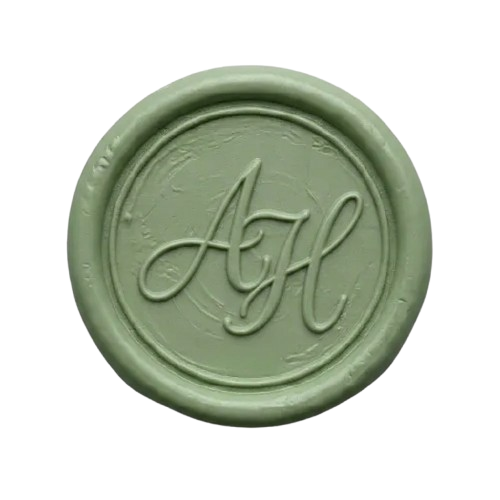
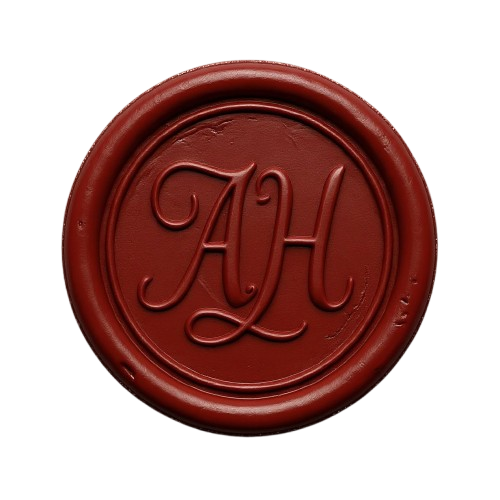
feat: add photo section dividers, fix calendar heart, burgundy RSVP button
- Add 4 couple photo dividers (sec-1..4) between sections
- Replace calendar heart path with clean symmetric shape
- Change RSVP confirm button to burgundy
- Restore Verde and Caramelo swatches in color palette

diff --git a/resources/views/public/invitation.blade.php b/resources/views/public/invitation.blade.php
@@ -192,8 +192,8 @@
             left: 50%;
             transform: translate(-50%, -50%) scale(1.1);
             /* Cover the viewport by height: video height = webview height, sides cropped.
-                                                                                                           min-* technique works where object-fit on <video> is unreliable (iOS/in-app browsers).
-                                                                                                           scale(1.1) adds a slight zoom so edges are always covered. */
+                                                                                                                                   min-* technique works where object-fit on <video> is unreliable (iOS/in-app browsers).
+                                                                                                                                   scale(1.1) adds a slight zoom so edges are always covered. */
             width: auto;
             height: auto;
             min-width: 100%;
@@ -393,6 +393,21 @@
             z-index: 1;
             color: #fff;
             font-weight: 600;
+        }
+
+        /* ─── Separador fotográfico ─────────── */
+        .photo-divider {
+            width: 100%;
+            overflow: hidden;
+            line-height: 0;
+        }
+
+        .photo-divider img {
+            width: 100%;
+            height: clamp(20rem, 70vh, 34rem);
+            object-fit: cover;
+            object-position: center 30%;
+            display: block;
         }
 
         /* ─── Itinerario ─────────────────── */
@@ -940,9 +955,6 @@
                     Sábado <span class="date-headline-day">24</span> de Octubre, 2026
                 </p>
 
-                <p class="font-accent italic text-2xl sm:text-3xl mt-2 mb-10 js-hidden" data-anim
-                    style="color: var(--olive);">4:30 de la tarde</p>
-
                 {{-- Countdown --}}
                 <div class="countdown js-hidden" style="margin-bottom: 20px" data-anim id="countdown"
                     data-target="2026-10-24T16:30:00-06:00">
@@ -983,7 +995,7 @@
                                 <span class="cal-day is-event">
                                     <svg class="cal-heart" viewBox="0 0 24 24" fill="currentColor" aria-hidden="true">
                                         <path
-                                            d="M12 21s-7.5-4.9-10-9.5C.6 8.9 1.7 5.7 4.6 5c1.9-.5 3.8.3 5 1.9 1.2-1.6 3.1-2.4 5-1.9 2.9.7 4 3.9 2.6 6.5C19.5 16.1 12 21 12 21z" />
+                                            d="M12 21.35l-1.45-1.32C5.4 15.36 2 12.28 2 8.5 2 5.42 4.42 3 7.5 3c1.74 0 3.41.81 4.5 2.09C13.09 3.81 14.76 3 16.5 3 19.58 3 22 5.42 22 8.5c0 3.78-3.4 6.86-8.55 11.54L12 21.35z" />
                                     </svg>
                                     <span class="cal-day-num">{{ $day }}</span>
                                 </span>
@@ -1028,6 +1040,11 @@
                     </a>
                 </div>
             </div>
+        </section>
+
+        {{-- ── SEPARADOR FOTOGRÁFICO ──────────────────────────────────── --}}
+        <section class="photo-divider js-hidden" data-anim>
+            <img src="{{ asset('img/sec-1.jpeg') }}" alt="" loading="lazy">
         </section>
 
         {{-- ── 3. MENSAJE PERSONAL ───────────────────────────────────── --}}
@@ -1081,6 +1098,11 @@
             </div>
         </section>
 
+        {{-- ── SEPARADOR FOTOGRÁFICO ──────────────────────────────────── --}}
+        <section class="photo-divider js-hidden" data-anim>
+            <img src="{{ asset('img/sec-2.jpeg') }}" alt="" loading="lazy">
+        </section>
+
         {{-- ── 5. UBICACIÓN ──────────────────────────────────────────── --}}
         <section id="ubicacion" class="relative py-20 sm:py-28 overflow-hidden" style="min-height:480px;">
 
@@ -1121,7 +1143,7 @@
                     class="inline-flex items-center gap-2 px-8 py-4 font-body text-xs tracking-[0.25em] uppercase
                       transition-all duration-300 js-hidden"
                     data-anim
-                    style="background:var(--charcoal);color:var(--cream);border-radius:2px;text-decoration:none;min-height:48px;"
+                    style="background:var(--autumn-burgundy);color:var(--cream);border-radius:2px;text-decoration:none;min-height:48px;"
                     onclick="window.haptics?.trigger('light')">
                     <svg class="w-4 h-4 shrink-0" viewBox="0 0 24 24" fill="none" stroke="currentColor"
                         stroke-width="1.8" stroke-linecap="round" stroke-linejoin="round">
@@ -1457,8 +1479,16 @@
                         <p class="swatch-label">Dorado</p>
                     </div>
                     <div>
+                        <div class="swatch mx-auto" style="background:#2E6B47;"></div>
+                        <p class="swatch-label">Verde</p>
+                    </div>
+                    <div>
                         <div class="swatch mx-auto" style="background:#C44E0A;"></div>
                         <p class="swatch-label">Terracota</p>
+                    </div>
+                    <div>
+                        <div class="swatch mx-auto" style="background:#A8791E;"></div>
+                        <p class="swatch-label">Caramelo</p>
                     </div>
                 </div>
 
@@ -1483,6 +1513,11 @@
                 </div>
 
             </div>
+        </section>
+
+        {{-- ── SEPARADOR FOTOGRÁFICO ──────────────────────────────────── --}}
+        <section class="photo-divider js-hidden" data-anim>
+            <img src="{{ asset('img/sec-3.jpeg') }}" alt="" loading="lazy" style="object-position:center 55%;">
         </section>
 
         {{-- Illustration divider --}}
@@ -1663,6 +1698,11 @@
 
                 <p class="gift-note js-hidden" data-anim>Liverpool · Evento N.º 51977994</p>
             </div>
+        </section>
+
+        {{-- ── SEPARADOR FOTOGRÁFICO ──────────────────────────────────── --}}
+        <section class="photo-divider js-hidden" data-anim>
+            <img src="{{ asset('img/sec-4.jpeg') }}" alt="" loading="lazy" style="object-position:center 40%;">
         </section>
 
         {{-- ── 10. FOOTER ────────────────────────────────────────────── --}}

diff --git a/resources/views/livewire/public/rsvp-form.blade.php b/resources/views/livewire/public/rsvp-form.blade.php
@@ -222,10 +222,10 @@
         {{-- Submit --}}
         <button type="button" wire:click="submit" wire:loading.attr="disabled"
             class="mt-10 w-full font-body text-xs tracking-[0.3em] uppercase transition-all duration-300 flex items-center justify-center gap-2"
-            style="background:var(--charcoal);color:var(--cream);border:none;border-radius:2px;
+            style="background:var(--autumn-burgundy);color:var(--cream);border:none;border-radius:2px;
                        min-height:52px;letter-spacing:0.3em;cursor:pointer;"
-            x-data @mouseenter="$el.style.background='var(--charcoal-soft)'"
-            @mouseleave="$el.style.background='var(--charcoal)'" wire:loading.class="opacity-50 cursor-not-allowed">
+            x-data @mouseenter="$el.style.background='#9a2424'"
+            @mouseleave="$el.style.background='var(--autumn-burgundy)'" wire:loading.class="opacity-50 cursor-not-allowed">
             <span wire:loading.remove wire:target="submit">Confirmar asistencia</span>
             <span wire:loading wire:target="submit" class="flex items-center gap-2">
                 <svg class="w-3.5 h-3.5 animate-spin" viewBox="0 0 24 24" fill="none" stroke="currentColor"